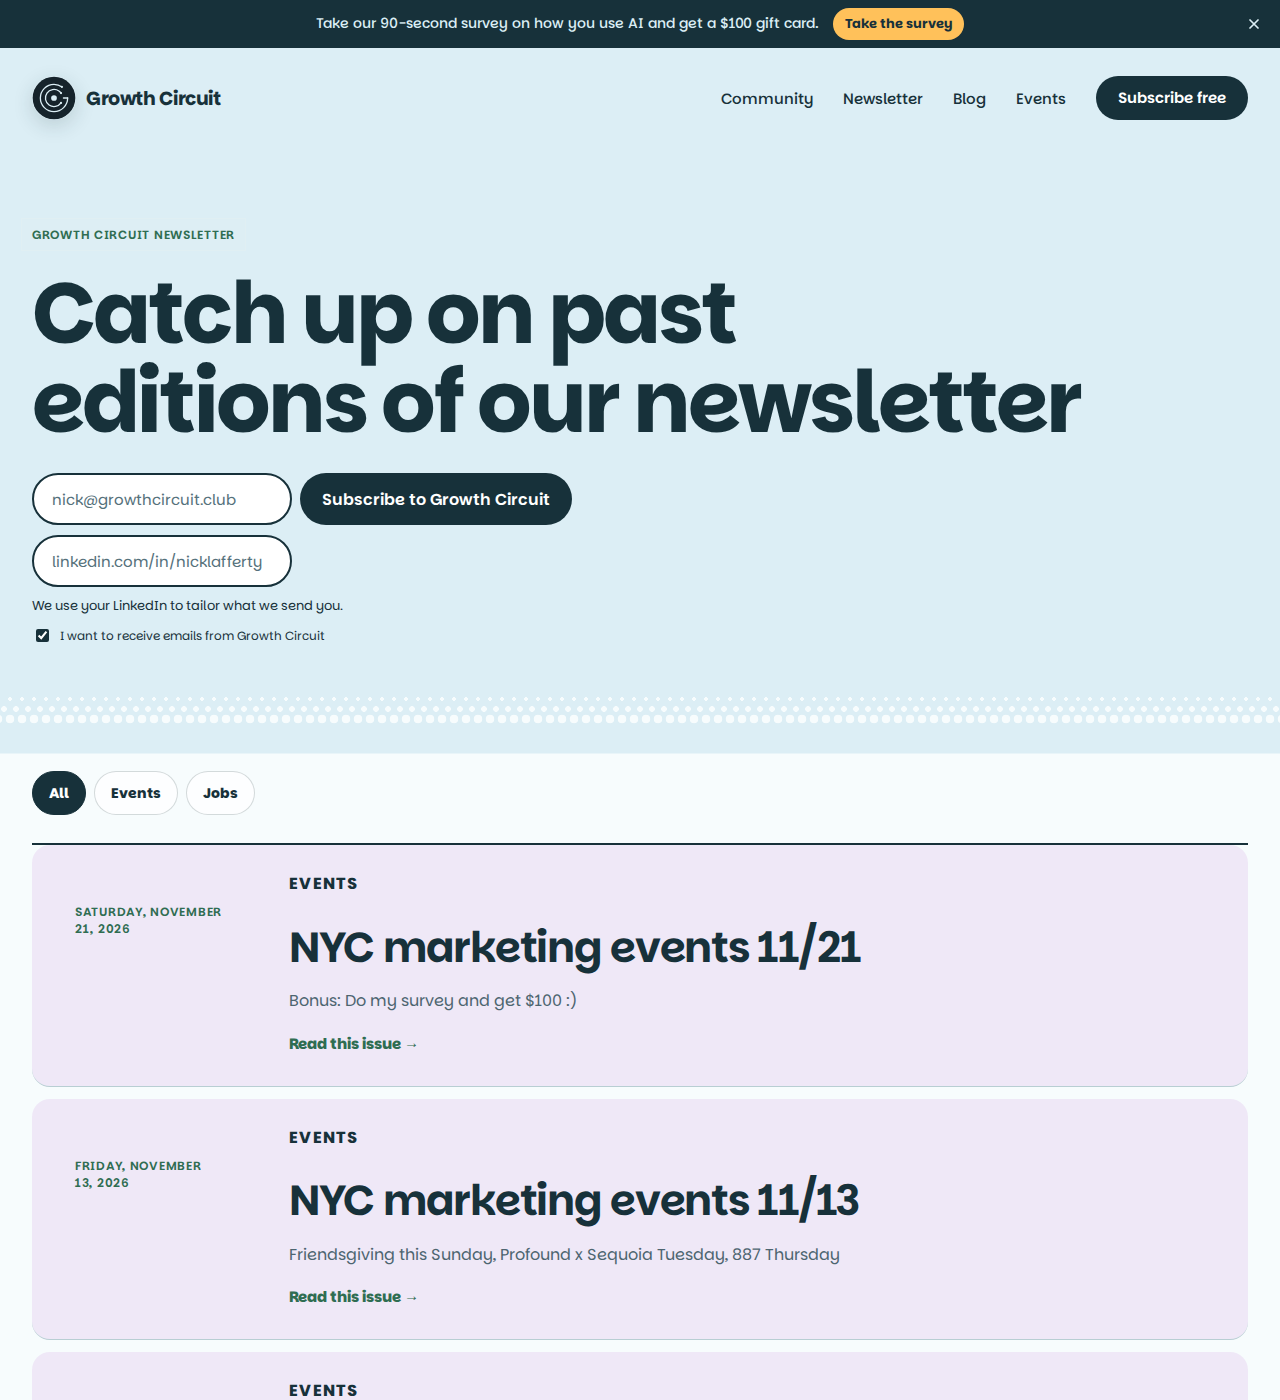
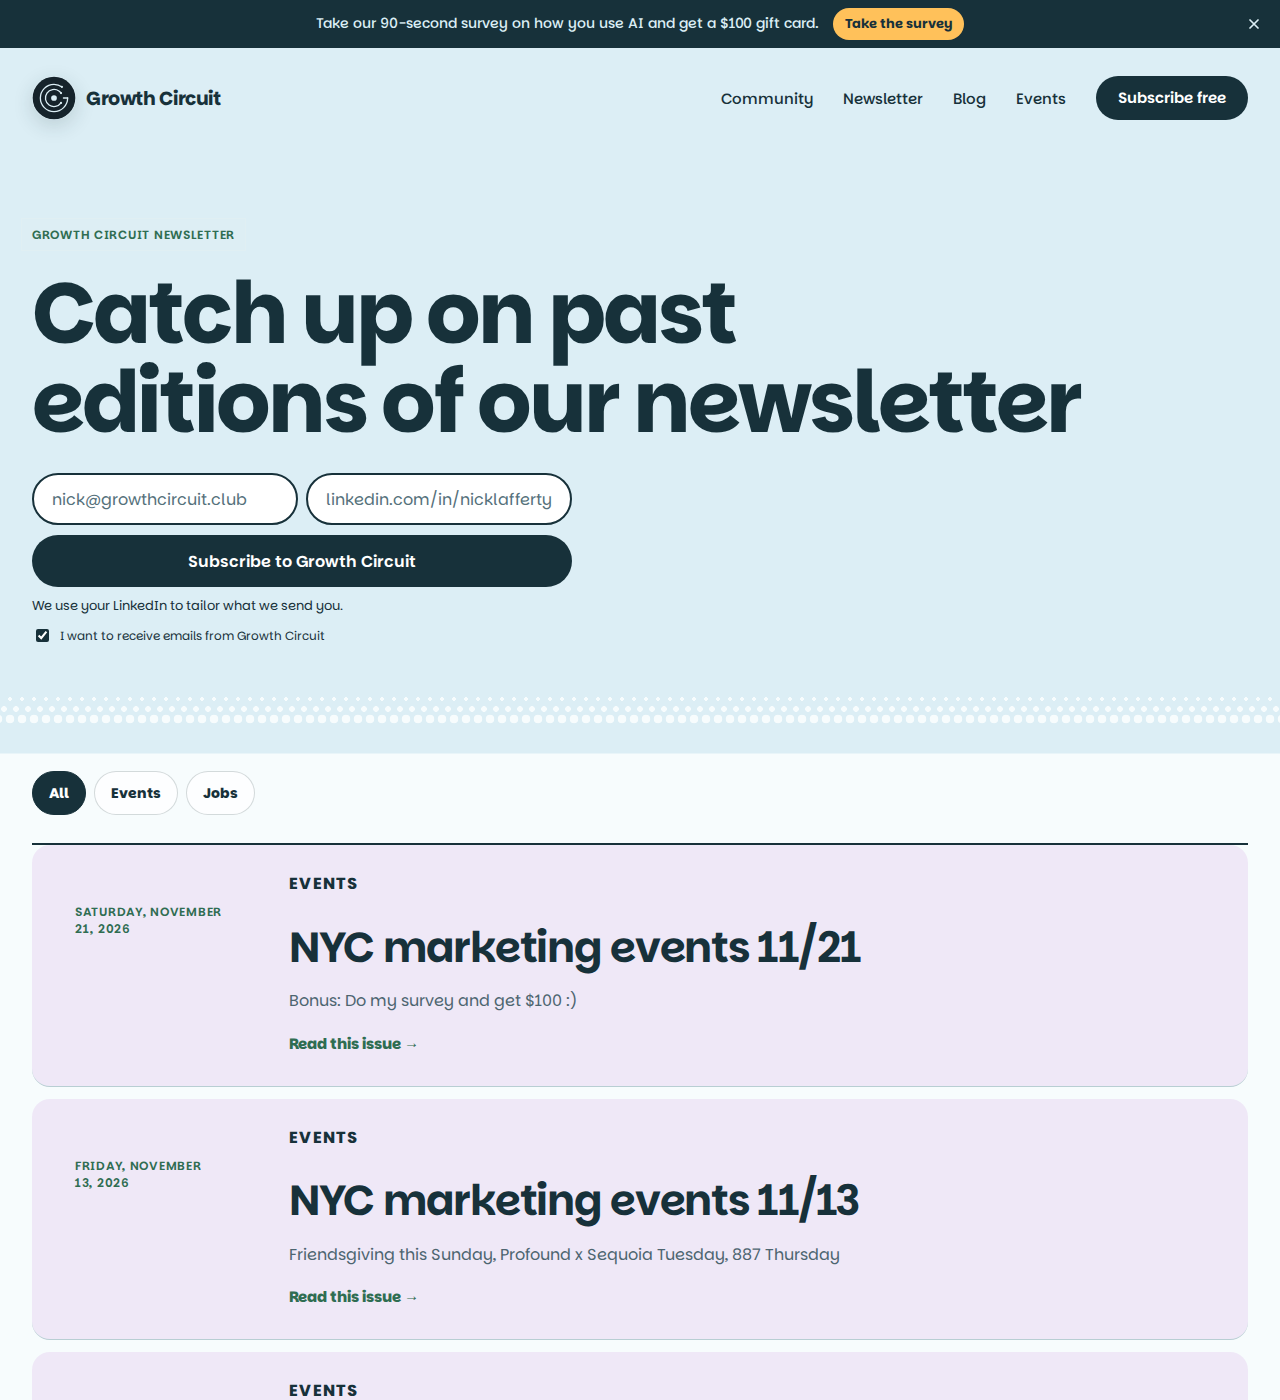
Use the events paired layout for the newsletter hero signup.
Email and LinkedIn share one row, the subscribe button spans both, and the fields stack at 390px.

Changed region(s): [[0.0312, 0.3379, 0.4688, 0.43]]

diff --git a/tests/e2e/site-design.spec.ts b/tests/e2e/site-design.spec.ts
@@ -53,6 +53,32 @@ test('mobile menu reaches the newsletter and its form posts to the newsletter AP
   await expect(form.getByRole('status')).toContainText('Check your inbox to confirm');
 });
 
+test('newsletter hero signup pairs the fields like the events form', async ({ page }) => {
+  await page.setViewportSize({ width: 1280, height: 1000 });
+  await page.goto('/newsletter');
+  const form = page.locator('#newsletter-hero .newsletter-form');
+  await expect(form).toHaveAttribute('data-layout', 'paired');
+  const boxes = async () => {
+    const email = await form.locator('input[name="email"]').boundingBox();
+    const linkedin = await form.locator('input[name="linkedin"]').boundingBox();
+    const button = await form.getByRole('button', { name: 'Subscribe to Growth Circuit' }).boundingBox();
+    return { email: email!, linkedin: linkedin!, button: button! };
+  };
+  const desktop = await boxes();
+  expect(Math.abs(desktop.email.y - desktop.linkedin.y)).toBeLessThan(2);
+  expect(Math.abs(desktop.email.width - desktop.linkedin.width)).toBeLessThan(2);
+  expect(desktop.linkedin.x).toBeGreaterThan(desktop.email.x + desktop.email.width - 2);
+  expect(desktop.button.y).toBeGreaterThan(desktop.email.y + desktop.email.height - 1);
+  expect(desktop.button.width).toBeGreaterThan(desktop.email.width + desktop.linkedin.width - 24);
+
+  await page.setViewportSize({ width: 390, height: 844 });
+  const mobile = await boxes();
+  expect(mobile.linkedin.y).toBeGreaterThan(mobile.email.y + mobile.email.height - 1);
+  expect(mobile.button.y).toBeGreaterThan(mobile.linkedin.y + mobile.linkedin.height - 1);
+  expect(Math.abs(mobile.email.width - mobile.linkedin.width)).toBeLessThan(2);
+  expect(Math.abs(mobile.button.width - mobile.email.width)).toBeLessThan(2);
+});
+
 test('events signup pairs the fields on desktop and stacks them on a phone', async ({ page }) => {
   await page.setViewportSize({ width: 1280, height: 1000 });
   await page.goto('/events');

diff --git a/docs/newsletter-signup-forms.md b/docs/newsletter-signup-forms.md
@@ -1,6 +1,6 @@
 # Newsletter signup forms
 
-Every public email signup posts to `POST /api/newsletter` and asks for the same three things, in this order: email, LinkedIn profile URL, consent checkbox. The helper line under the fields is `We use your LinkedIn to tailor what we send you.` Placeholders are `nick@growthcircuit.club` and `linkedin.com/in/nicklafferty`. Placeholder type starts at 17px, the same size as typed text, and steps down with the field width (16, 15, 14, 13, then 12px). It never goes below 12px. At 390px every field is wide enough for 17px. At 1280 the homepage hero, the newsletter archive hero, and the events fields use 15px, and the fields that sit beside the button (sidebars, newsletter sections, jobs bottom, Ship or Skip bottom) use 13px. The Ship or Skip rubric is full width at 1280 and stays at 17px. Typed text stays 17px and the inputs stay 52px tall. The events page signup (`layout="paired"`) puts email and LinkedIn on one row and the button full width underneath. At 390px that events form stacks. The Ship or Skip rubric stacks its fields (`layout="column"`) so the placeholder stays 17px, the same size as typed text. Every other wide placement keeps the button beside the email field. The consent line is `I want to receive emails from Growth Circuit`. The button label is `Subscribe to Growth Circuit`. Those four strings live only in `NewsletterFields.astro`. Labels are visually hidden. Inputs and the button are pills (52px tall, fully rounded). Light surfaces use a dark button. Dark surfaces use the sun button and light helper and consent text. A narrow container stacks the button under the LinkedIn field. A wide container keeps the button beside the email field, with LinkedIn the same width as the email field.
+Every public email signup posts to `POST /api/newsletter` and asks for the same three things, in this order: email, LinkedIn profile URL, consent checkbox. The helper line under the fields is `We use your LinkedIn to tailor what we send you.` Placeholders are `nick@growthcircuit.club` and `linkedin.com/in/nicklafferty`. Placeholder type starts at 17px, the same size as typed text, and steps down with the field width (16, 15, 14, 13, then 12px). It never goes below 12px. At 390px every field is wide enough for 17px. At 1280 the homepage hero and the events fields use 15px, and the fields that sit beside the button (sidebars, newsletter sections, jobs bottom, Ship or Skip bottom) use 13px. The Ship or Skip rubric is full width at 1280 and stays at 17px. Typed text stays 17px and the inputs stay 52px tall. The events page and the newsletter archive hero (`layout="paired"`) put email and LinkedIn on one row and the button full width underneath. At 390px those forms stack. The archive hero stays in a 540px box, so its placeholders are 16px at 1280 and 17px at 390. The Ship or Skip rubric stacks its fields (`layout="column"`) so the placeholder stays 17px, the same size as typed text. Every other wide placement keeps the button beside the email field. The consent line is `I want to receive emails from Growth Circuit`. The button label is `Subscribe to Growth Circuit`. Those four strings live only in `NewsletterFields.astro`. Labels are visually hidden. Inputs and the button are pills (52px tall, fully rounded). Light surfaces use a dark button. Dark surfaces use the sun button and light helper and consent text. A narrow container stacks the button under the LinkedIn field. A wide container keeps the button beside the email field, with LinkedIn the same width as the email field.
 
 Headings, body copy, and button labels stay with the placement. Do not invent new titles.
 
@@ -37,7 +37,7 @@ Homepage contrast chips for the helper and consent live in `src/pages/index.astr
 
 The jobs sidebar and the blog sidebar both render `SidebarEmailCta`. The blog call is the default events card. The jobs call passes `variant="jobs"`.
 
-Section placements render `NewsletterSignup`. `formOnly` drops the section heading (homepage hero, homepage closing, and the top of the newsletter archive). The archive hero uses the same form box as the homepage hero, capped at 540px. The archive section below the issue list stays. `adaptive` is the archive filter. `variant="jobs"` uses the jobs headline. `showArchiveLink` adds the past-newsletters link on Ship or Skip. The events page passes `layout="paired"`: email and LinkedIn share the top row, and the button spans the full width under them. At 390px that form stacks. The Ship or Skip rubric passes `layout="column"` so its fields are full width and the placeholder stays 17px.
+Section placements render `NewsletterSignup`. `formOnly` drops the section heading (homepage hero, homepage closing, and the top of the newsletter archive). The archive hero passes `layout="paired"`, the same row as the events form, and stays capped at 540px. The archive section below the issue list stays. `adaptive` is the archive filter. `variant="jobs"` uses the jobs headline. `showArchiveLink` adds the past-newsletters link on Ship or Skip. The events page passes `layout="paired"`: email and LinkedIn share the top row, and the button spans the full width under them. At 390px that form stacks. The Ship or Skip rubric passes `layout="column"` so its fields are full width and the placeholder stays 17px.
 
 ## Not signup forms
 
